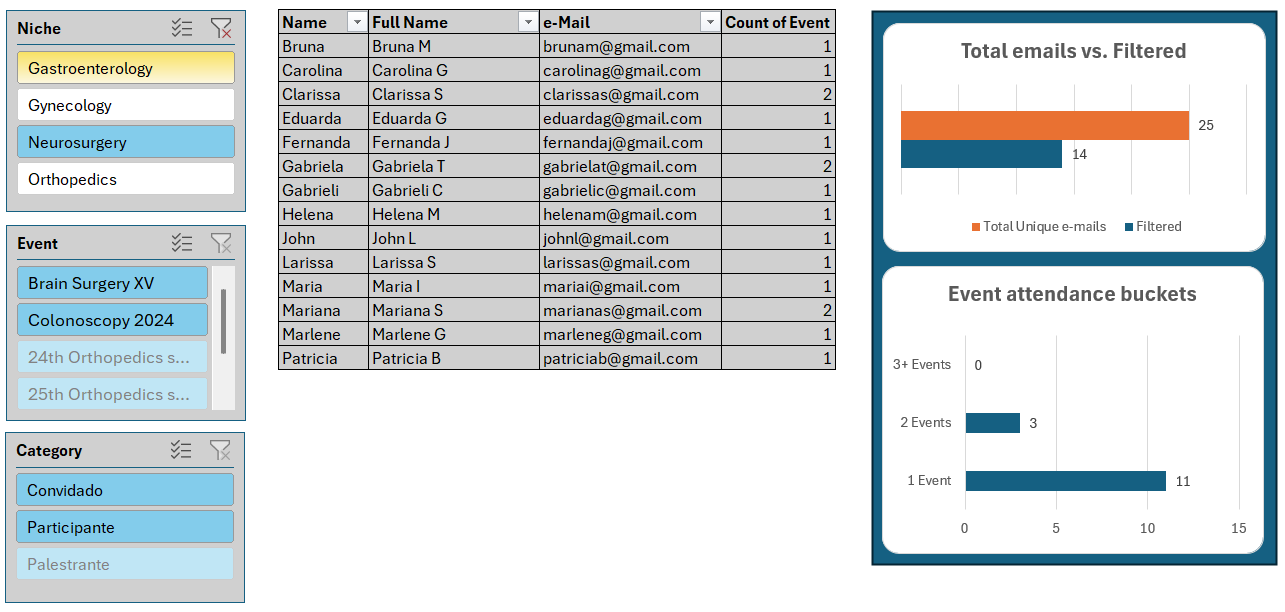
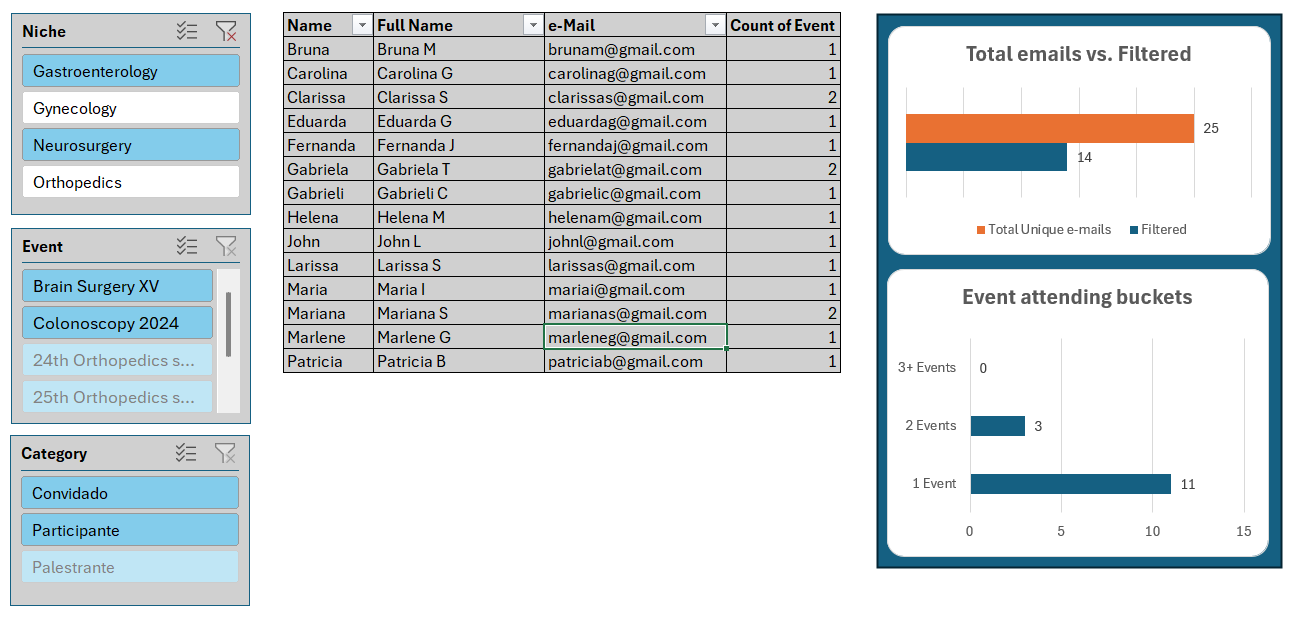
Tradução parcial para PTBR do README.

diff --git a/README_PT.md b/README_PT.md
@@ -1,14 +1,92 @@
-# Centralização de dados de eventos cientificios
+# Centralização de dados de clientes e eventos científicos
 
 ## Introdução
 
-**Projeto em andamento (Inicio:Julho/2026 - Expectativa de finalização: Abril/2026)**
+**Projeto em andamento 🛠 (Inicio:Julho/2026 - Expectativa de finalização: Abril/2026)**
 
-Esse projeto está sendo desenvolvido em parceria com uma empresa com o objetivo de centralizar, tratar, organizar e centralizar dados de clientes e suas participações nos eventos da empresa. ''Also develop and link a PowerBI file to excel and help visualize important business insights.''
+![Data Sources](/screenshots/excel_dashboard.png)
 
-Levando em consideração a LGPD, os arquivos e informações aqui descritas, serão modificadas para não apresentar dados reais de negócio e dos clientes.
+Esse projeto está sendo desenvolvido em parceria com uma empresa com o objetivo de centralizar, tratar e organizar dados de clientes e suas participações em eventos científicos. Também desenvolver e conectar essa base de dados Excel ao PowerBI, ajudando a visualizar insights importantes de negócio.
 
+Em conformidade com a LGPD, os arquivos e informações aqui descritas, serão modificadas/simuladas protegendo os dados sensíveis da empresa e clientes.
+
+&nbsp;
+## 📌 Project Workflow
+
+**Problema de negócios → Dados → Limpeza/Padronização → Data Model → Análise de dados → Insights**
+
+Esse projeto segue um fluxo de trabalho de análise de dados de ponta a ponta, desde entender o problema de negócio até entregar insights acionáveis através de uma base de dados e dashboard simples no Excel e futuramente dashboards mais completos no PowerBI.
+
+&nbsp;
 ## 📊 Project Overview
 
-A proposta desse projeto é consolidar os dados distribuidos em diversos arquivos excel/CSVs e outras fontes, criando assim uma base de dados sólida e confiável no excel que pode ser diretamente conectada ao Power BI para análises de negócio e relatórios de gestão.
+**Problema de Negócios**
 
+Ao notar a falta de uma base de dados estruturada e perceber que a empresa não conseguia acessar importantes insights sobre seus eventos/conferências facilmente nem rapidamente coletar informações de seus clientes para ativações de marketing, Eu propus esse projeto ao CEO da empresa parceira.
+
+**Objetivo**
+
+Essa iniciativa visa consolidar informações atualmente distribuídas através de diferentes arquivos Excel e também outras fontes, criando uma base de dados estruturada que poderá ser diretamente conectada ao PowerBI para análises de negócios e relatórios gerenciais.
+
+**Quem se beneficiará desse projeto**
+
+Esse projeto foi desenvolvido para ser de fácil uso e proporcionar utilidade prática para o CEO e seus sócios.
+
+**Principais questões respondidas**
+
+- Quantidade de dados valiosos e acionáveis a empresa possui no momento.
+- Retenção de clientes em eventos ou do mesmo nicho que participou previamente.
+- O real uso dessa nova base de dados para aumentar vendas e a participação dos eventos.
+- O público alvo dos eventos e seus nichos, facilmente acessáveis através do dashboard no Excel e BI.
+
+&nbsp;
+## 🗂 Estrutura do Projeto
+
+```
+excel-bi-database-project/
+│
+├── documentation/
+│   ├── data_model.png
+│   ├── process_flow.png
+│   └── data_dictionary.xlsx
+│
+├── excel/
+│   └── sample_database_cleaning.xlsx
+│
+├── powerbi/
+│   └── dashboard_demo.pbix
+│
+├── screenshots/
+│   └──
+│
+├── README_PT.md
+└── README.md
+```
+
+&nbsp;
+## 📊 Dataset
+
+![Data Sources](/screenshots/data_sources.png)
+
+**Contexto dos Dados**
+
+- De onde os dados são extraidos?
+
+    - Os dados são extraidos de diferentes fontes, como Nuvem, CRM, CRM de Marketing e também arquivos fisicos registrados manualmente e depois digitalizados.
+
+- O quê cada arquivo representa
+
+    - name_of_event/old.xlsx -> Traz os dados completos de registro e participação dos clientes no evento mencionado.
+
+    - CRM_extract.xlsx -> Arquivos extraido diretamente do CRM da empresa, contendo um grande volume de dados, particionado pelo periodo solicitado.
+
+    - files.csv -> Arquivos mais antigos que geralmente incluem poucas informações, como nome e email.
+
+    - sales or participation_1_quarter.png -> Venda ou participação dos eventos que foram digitalizadas de arquivos fisicos da equipe.
+
+- Volume de Dados 
+    - Nesse projeto, a expectativa de volume de dados é aproximadamente 200 arquivos e mais de 100k de emails únicos de clientes.
+
+- Limitações  
+    - Nesse projeto há algumas limitações na parte de coleta dos arquivos, incluindo:  
+        - Decentralização, falta de dados, dados inutilizáveis e arquivos sem coluna de email.

diff --git a/README_PTBR.md b/README_PTBR.md
@@ -1,0 +1,92 @@
+# Centralização de dados de clientes e eventos científicos
+
+## Introdução
+
+**Projeto em andamento 🛠 (Inicio:Julho/2026 - Expectativa de finalização: Abril/2026)**
+
+![Data Sources](/screenshots/excel_dashboard.png)
+
+Esse projeto está sendo desenvolvido em parceria com uma empresa com o objetivo de centralizar, tratar e organizar dados de clientes e suas participações em eventos científicos. Também desenvolver e conectar essa base de dados Excel ao PowerBI, ajudando a visualizar insights importantes de negócio.
+
+Em conformidade com a LGPD, os arquivos e informações aqui descritas, serão modificadas/simuladas protegendo os dados sensíveis da empresa e clientes.
+
+&nbsp;
+## 📌 Project Workflow
+
+**Problema de negócios → Dados → Limpeza/Padronização → Data Model → Análise de dados → Insights**
+
+Esse projeto segue um fluxo de trabalho de análise de dados de ponta a ponta, desde entender o problema de negócio até entregar insights acionáveis através de uma base de dados e dashboard simples no Excel e futuramente dashboards mais completos no PowerBI.
+
+&nbsp;
+## 📊 Project Overview
+
+**Problema de Negócios**
+
+Ao notar a falta de uma base de dados estruturada e perceber que a empresa não conseguia acessar importantes insights sobre seus eventos/conferências facilmente nem rapidamente coletar informações de seus clientes para ativações de marketing, Eu propus esse projeto ao CEO da empresa parceira.
+
+**Objetivo**
+
+Essa iniciativa visa consolidar informações atualmente distribuídas através de diferentes arquivos Excel e também outras fontes, criando uma base de dados estruturada que poderá ser diretamente conectada ao PowerBI para análises de negócios e relatórios gerenciais.
+
+**Quem se beneficiará desse projeto**
+
+Esse projeto foi desenvolvido para ser de fácil uso e proporcionar utilidade prática para o CEO e seus sócios.
+
+**Principais questões respondidas**
+
+- Quantidade de dados valiosos e acionáveis a empresa possui no momento.
+- Retenção de clientes em eventos ou do mesmo nicho que participou previamente.
+- O real uso dessa nova base de dados para aumentar vendas e a participação dos eventos.
+- O público alvo dos eventos e seus nichos, facilmente acessáveis através do dashboard no Excel e BI.
+
+&nbsp;
+## 🗂 Estrutura do Projeto
+
+```
+excel-bi-database-project/
+│
+├── documentation/
+│   ├── data_model.png
+│   ├── process_flow.png
+│   └── data_dictionary.xlsx
+│
+├── excel/
+│   └── sample_database_cleaning.xlsx
+│
+├── powerbi/
+│   └── dashboard_demo.pbix
+│
+├── screenshots/
+│   └──
+│
+├── README_PT.md
+└── README.md
+```
+
+&nbsp;
+## 📊 Dataset
+
+![Data Sources](/screenshots/data_sources.png)
+
+**Contexto dos Dados**
+
+- De onde os dados são extraidos?
+
+    - Os dados são extraidos de diferentes fontes, como Nuvem, CRM, CRM de Marketing e também arquivos fisicos registrados manualmente e depois digitalizados.
+
+- O quê cada arquivo representa
+
+    - name_of_event/old.xlsx -> Traz os dados completos de registro e participação dos clientes no evento mencionado.
+
+    - CRM_extract.xlsx -> Arquivos extraido diretamente do CRM da empresa, contendo um grande volume de dados, particionado pelo periodo solicitado.
+
+    - files.csv -> Arquivos mais antigos que geralmente incluem poucas informações, como nome e email.
+
+    - sales or participation_1_quarter.png -> Venda ou participação dos eventos que foram digitalizadas de arquivos fisicos da equipe.
+
+- Volume de Dados 
+    - Nesse projeto, a expectativa de volume de dados é aproximadamente 200 arquivos e mais de 100k de emails únicos de clientes.
+
+- Limitações  
+    - Nesse projeto há algumas limitações na parte de coleta dos arquivos, incluindo:  
+        - Decentralização, falta de dados, dados inutilizáveis e arquivos sem coluna de email.

diff --git a/README.md b/README.md
@@ -4,6 +4,8 @@
 
 **Project in development 🛠(Start date:July/2026 - Estimated conclusion: April/2027)**
 
+![Data Sources](/screenshots/excel_dashboard.png)
+
 This project is being developed in partnership with a company to centralize, standardize and organize customer participation data from scientific events. Also develop and link a PowerBI file to excel and help visualize important business insights.
 
 In accordance with the LGPD (Brazilian General Data Protection Law), the files and information of this project will be modified to protect the company and its clients data.
@@ -14,15 +16,14 @@ In accordance with the LGPD (Brazilian General Data Protection Law), the files a
 **Business Problem → Data → Transformation → Data Model → Analysis → Insights**
 
 The project follows an end-to-end data analytics workflow, from
-understanding the business problem to delivering actionable insights
-through an excel database and simple dashboard and also a more complete Power BI dashboard.
+understanding the business problem to delivering actionable insights through an Excel database and simple dashboard and also a more complete Power BI dashboard.
 
 &nbsp;
 ## 📊 Project Overview
 
 **Business Problem**
 
-Noticing the lack of a structured database and realizing that the company could not easily access important insights about its events/conferences participations nor quickly gather customers information for marketing purposes, I proposed this project to the company's CEO.
+Noticing the lack of a structured database and realizing the company could not easily access important insights about its events/conferences nor quickly gather customers information for marketing purposes, I proposed this project to the company's CEO.
 
 **Objective**
 
@@ -30,14 +31,14 @@ This initiative aims to consolidate information currently distributed across dif
 
 **Who would benefit the most from this project**
 
-This project was created with the main objective of being easily usable and highly helpful for the CEO and the Business Partners.
+This project was designed to be easy to use and provide practical value for the CEO and the Business Partners.
 
 **Main Questions Answered**
 
 - How many customers/clients valuable and usable data the company holds at the moment.
-- Customers retention in the same event or the same niche as previouly attented.
-- The usage of the new database customers data for improving sales and event attendance.
-- Main target of each niche and event, easily accesable through Dashboard in Excel and BI.
+- Customer retention in the same event or the same niche as previously attented.
+- The usage of the new database customer data for improving sales and event attendance.
+- The main target of each niche and event, easily accesable through Dashboard in Excel and BI.
 
 &nbsp;
 ## 🗂 Project Structure
@@ -68,11 +69,11 @@ excel-bi-database-project/
 
 ![Data Sources](/screenshots/data_sources.png)
 
-**Explanations**: 
+**Data Context**
 
 - Where the data comes from
 
-    - The data come from differente sources like Cloud, CRM, Marketing CRM and also photos from physical sales books.
+    - The data comes from different sources like Cloud, CRM, Marketing CRM and also photos from physical sales books.
 
 - What each file represents
 
